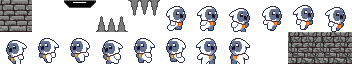
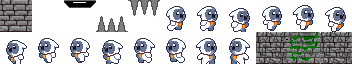
Tiles actualizadas

Changed region(s): [[0.7188, 0.5, 0.9375, 1.0]]

diff --git a/PROYECTO_FINAL/js/game.js b/PROYECTO_FINAL/js/game.js
@@ -58,7 +58,7 @@ Game.World = function(friccion = 0.15, gravedad = 2) {
     this.filas = 18;
 
     //instanciacion de objetos
-    this.tile_set = new Game.TileSet(32, 10);
+    this.tile_set = new Game.TileSet(32, 11);
     this.personaje = new Game.Object.Personaje();
     this.sierra = new Game.Sierra();
     this.collider = new Game.Collider();
@@ -179,6 +179,10 @@ Game.Collider = function() {
                 case 4:
                     this.colisionPinchosInf(obj, tile_y + (tile_size / 2.5))
                     break;
+                case 20:
+                    this.colisionDcha(obj, tile_x + tile_size);
+                    break;
+
 
             }
         }

diff --git a/PROYECTO_FINAL/js/display.js b/PROYECTO_FINAL/js/display.js
@@ -5,7 +5,7 @@ const Display = function(canvas) {
 
     //funcion de dibujar un mapa, recorremos el array y por cada valor seteamos el origena recortar y el destino, después lo dibujamos con dibujarImagen()
     this.dibujaMapa = function(img, img_col, mapa, m_col, tile_size) {
-            for (var i = 0; i < mapa.length; i++) {
+            for (var i = mapa.length - 1; i > -1; i--) {
                 //recogemos el valor 
                 var value = mapa[i];
                 //recogemos el tile
